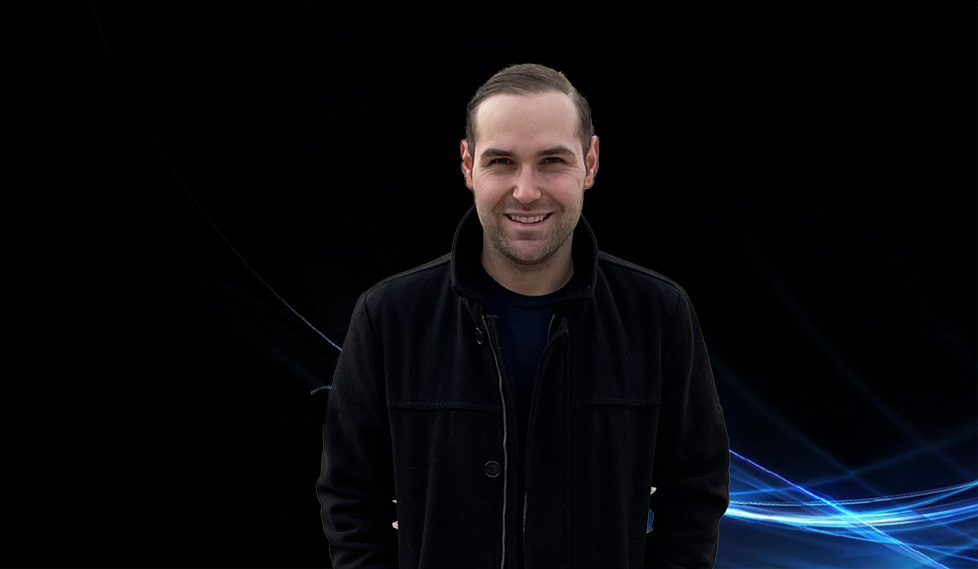
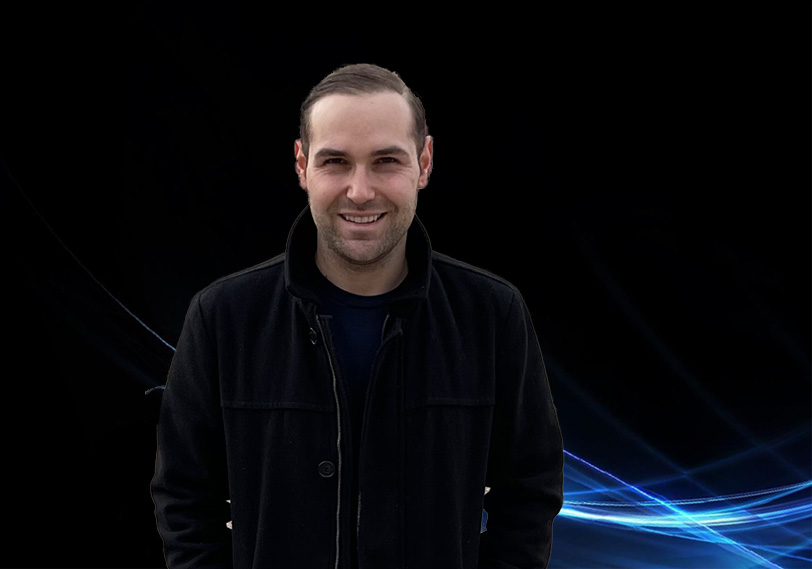
header styled

diff --git a/assets/css/style.css b/assets/css/style.css
@@ -48,25 +48,37 @@ nav ul li a:hover {
   background-color: #748a9e;
 }
 
+/* Hero/Jumbotron */
+
 .hero {
-  background: #000000;
   display: flex;
-  justify-content: center;
-  flex-wrap: wrap;
-  align-items: flex-start;
-  background-position: fixed;
+  justify-content: space-evenly;
+  background: #000000;
   height: 450px;
   width: 100%;
 }
 
-/* Hero/Jumbotron */
+.main-heading {
+  margin: 80px 0 20px 30px;
+}
 
+.main-heading p,
 .main-heading h1 {
   color: #fff;
+  font-size: 30px;
+  padding: 15px 0 15px 30px;
+  font-weight: bold;
+}
+
+.main-heading h1 {
+  font-size: 80px;
+  font-family: "Open Sans", sans-serif;
+  color: #d60000;
 }
 
 .portfolio-picture {
-  background: #fff;
-  width: 400px;
-  height: 400px;
+  display: flex;
+  background: url("../images/hero-img.jpg");
+  width: 600px;
+  height: 450px;
 }

diff --git a/index.html b/index.html
@@ -3,6 +3,7 @@
   <head>
     <meta charset="UTF-8" />
     <meta name="viewport" content="width=device-width, initial-scale=1.0" />
+    <link href="https://fonts.googleapis.com/css2?family=Open+Sans:wght@700&display=swap" rel="stylesheet">
     <link rel="stylesheet" href="./assets/css/style.css" />
     <link
       href="https://fonts.googleapis.com/css2?family=Montserrat&display=swap"
@@ -39,11 +40,9 @@
 <!-- Main Heading -->
 <section class="hero">
     <div class="main-heading">
-      <h1>
-        Hi, I'm </br>
-        <span class="name-larger"> Anderson Buzzi</span> </br>
-        and I'm a web developer 
-      </h1>
+      <p>Hi, I'm</p>
+      <h1>Anderson Buzzi</h1>
+      <p>and I'm a web developer</p>
     </div>
 
     <div class="portfolio-picture"></div>
